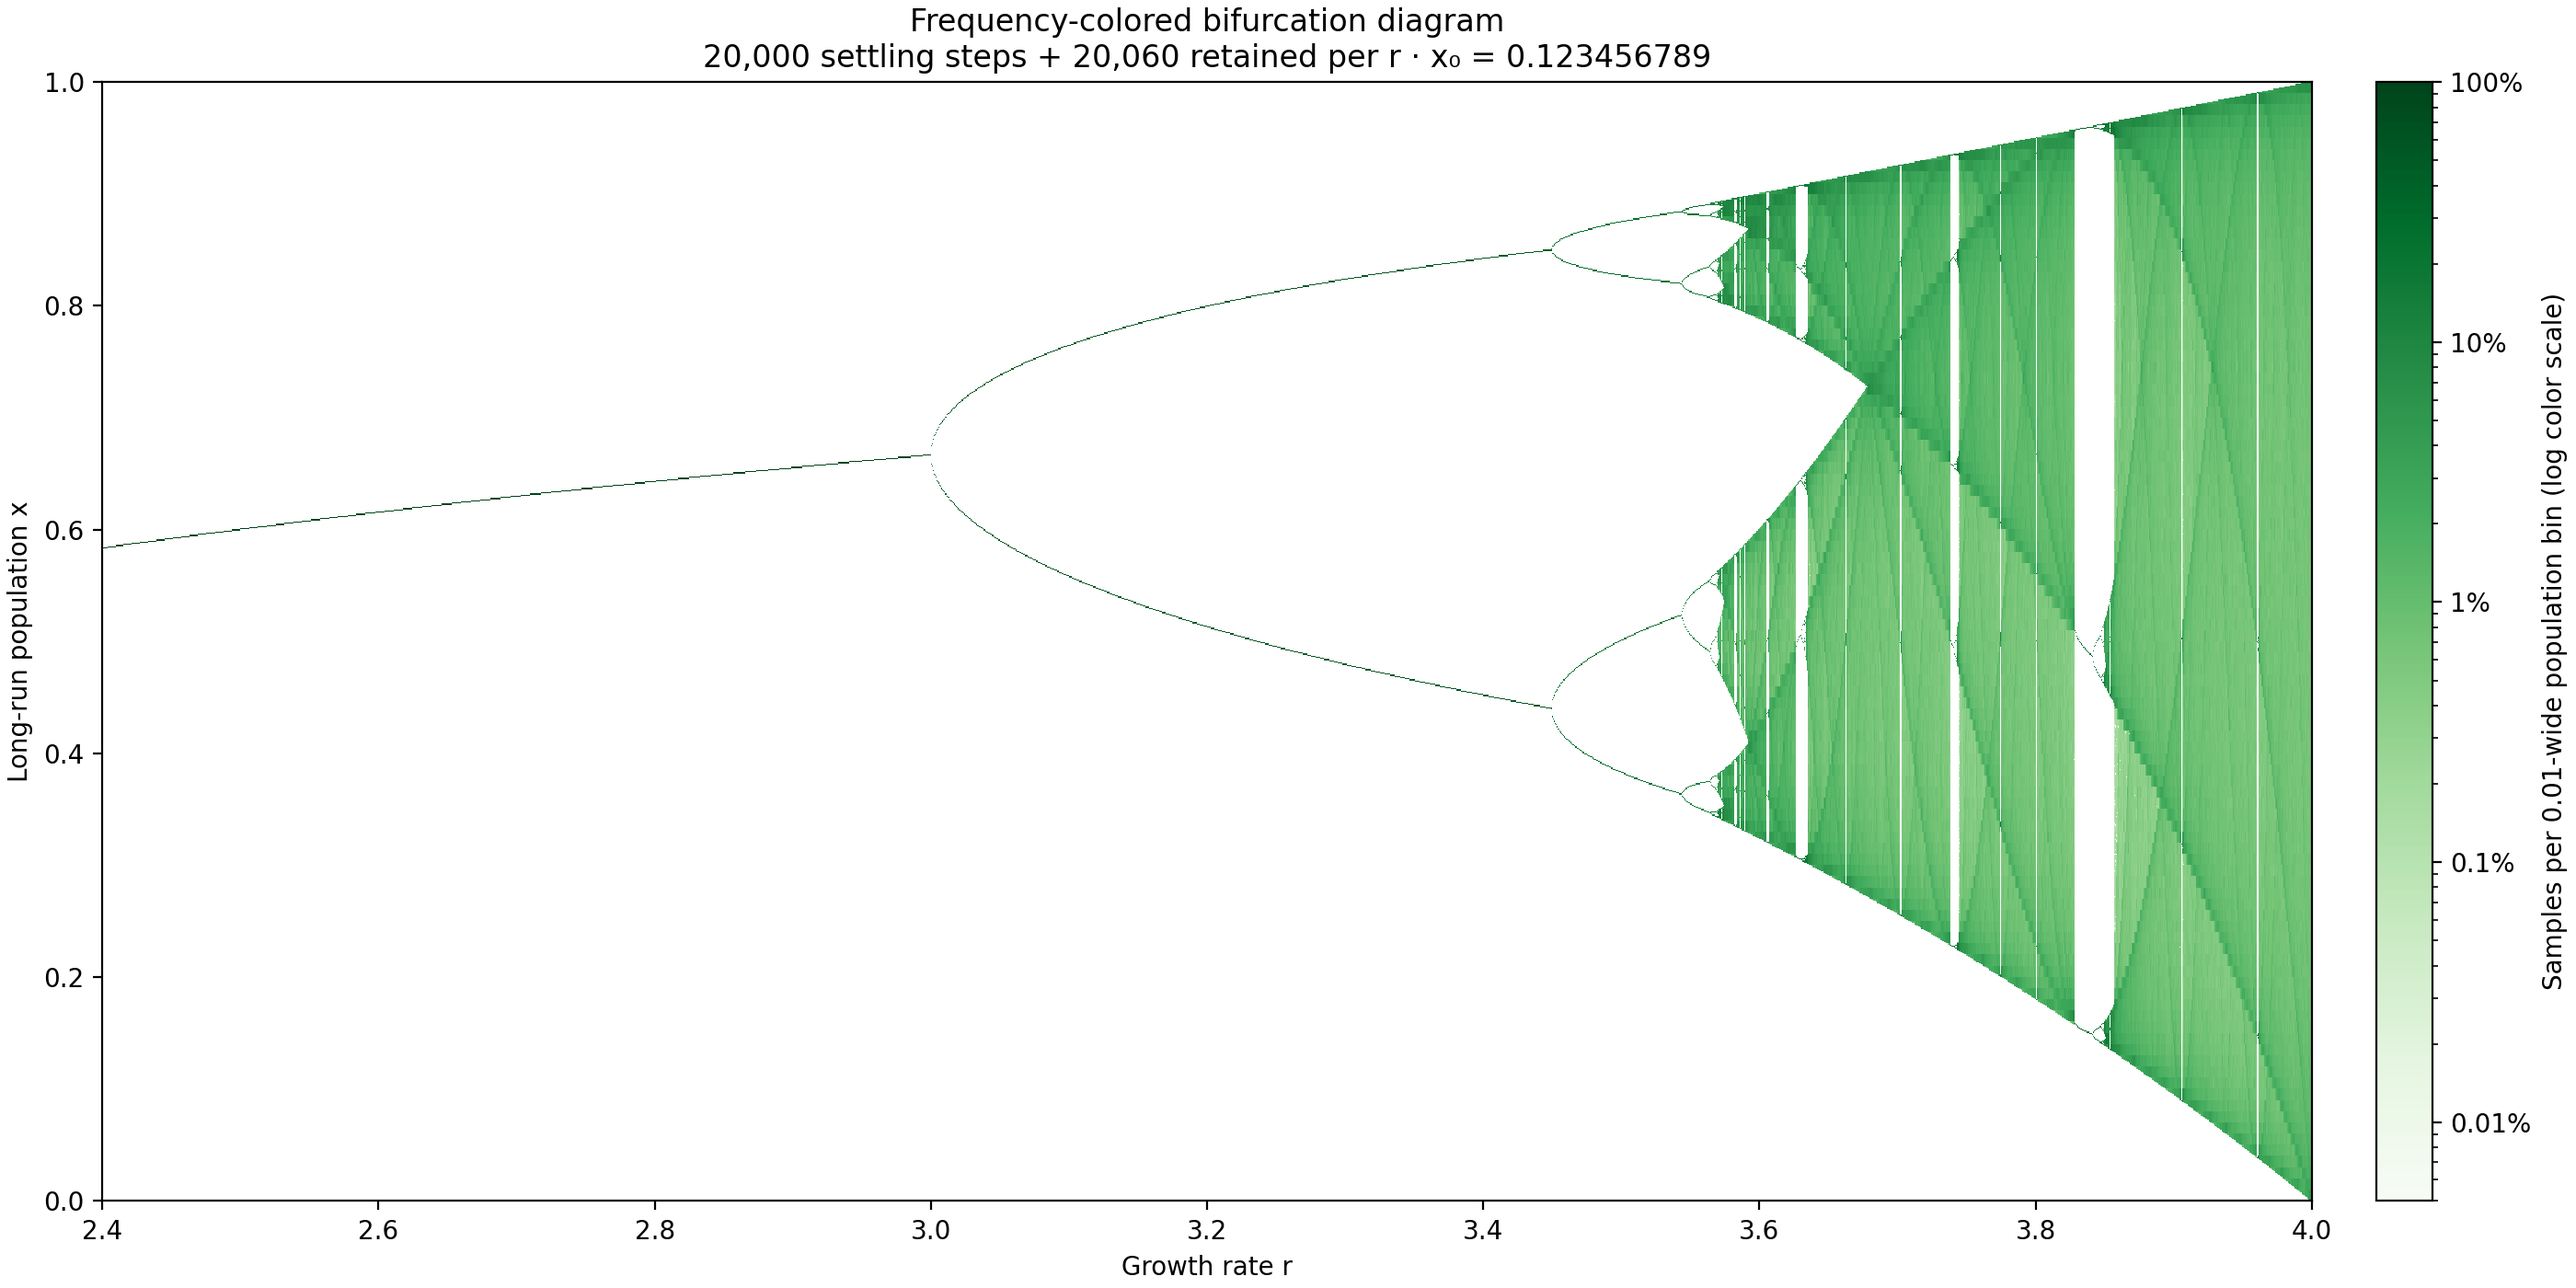
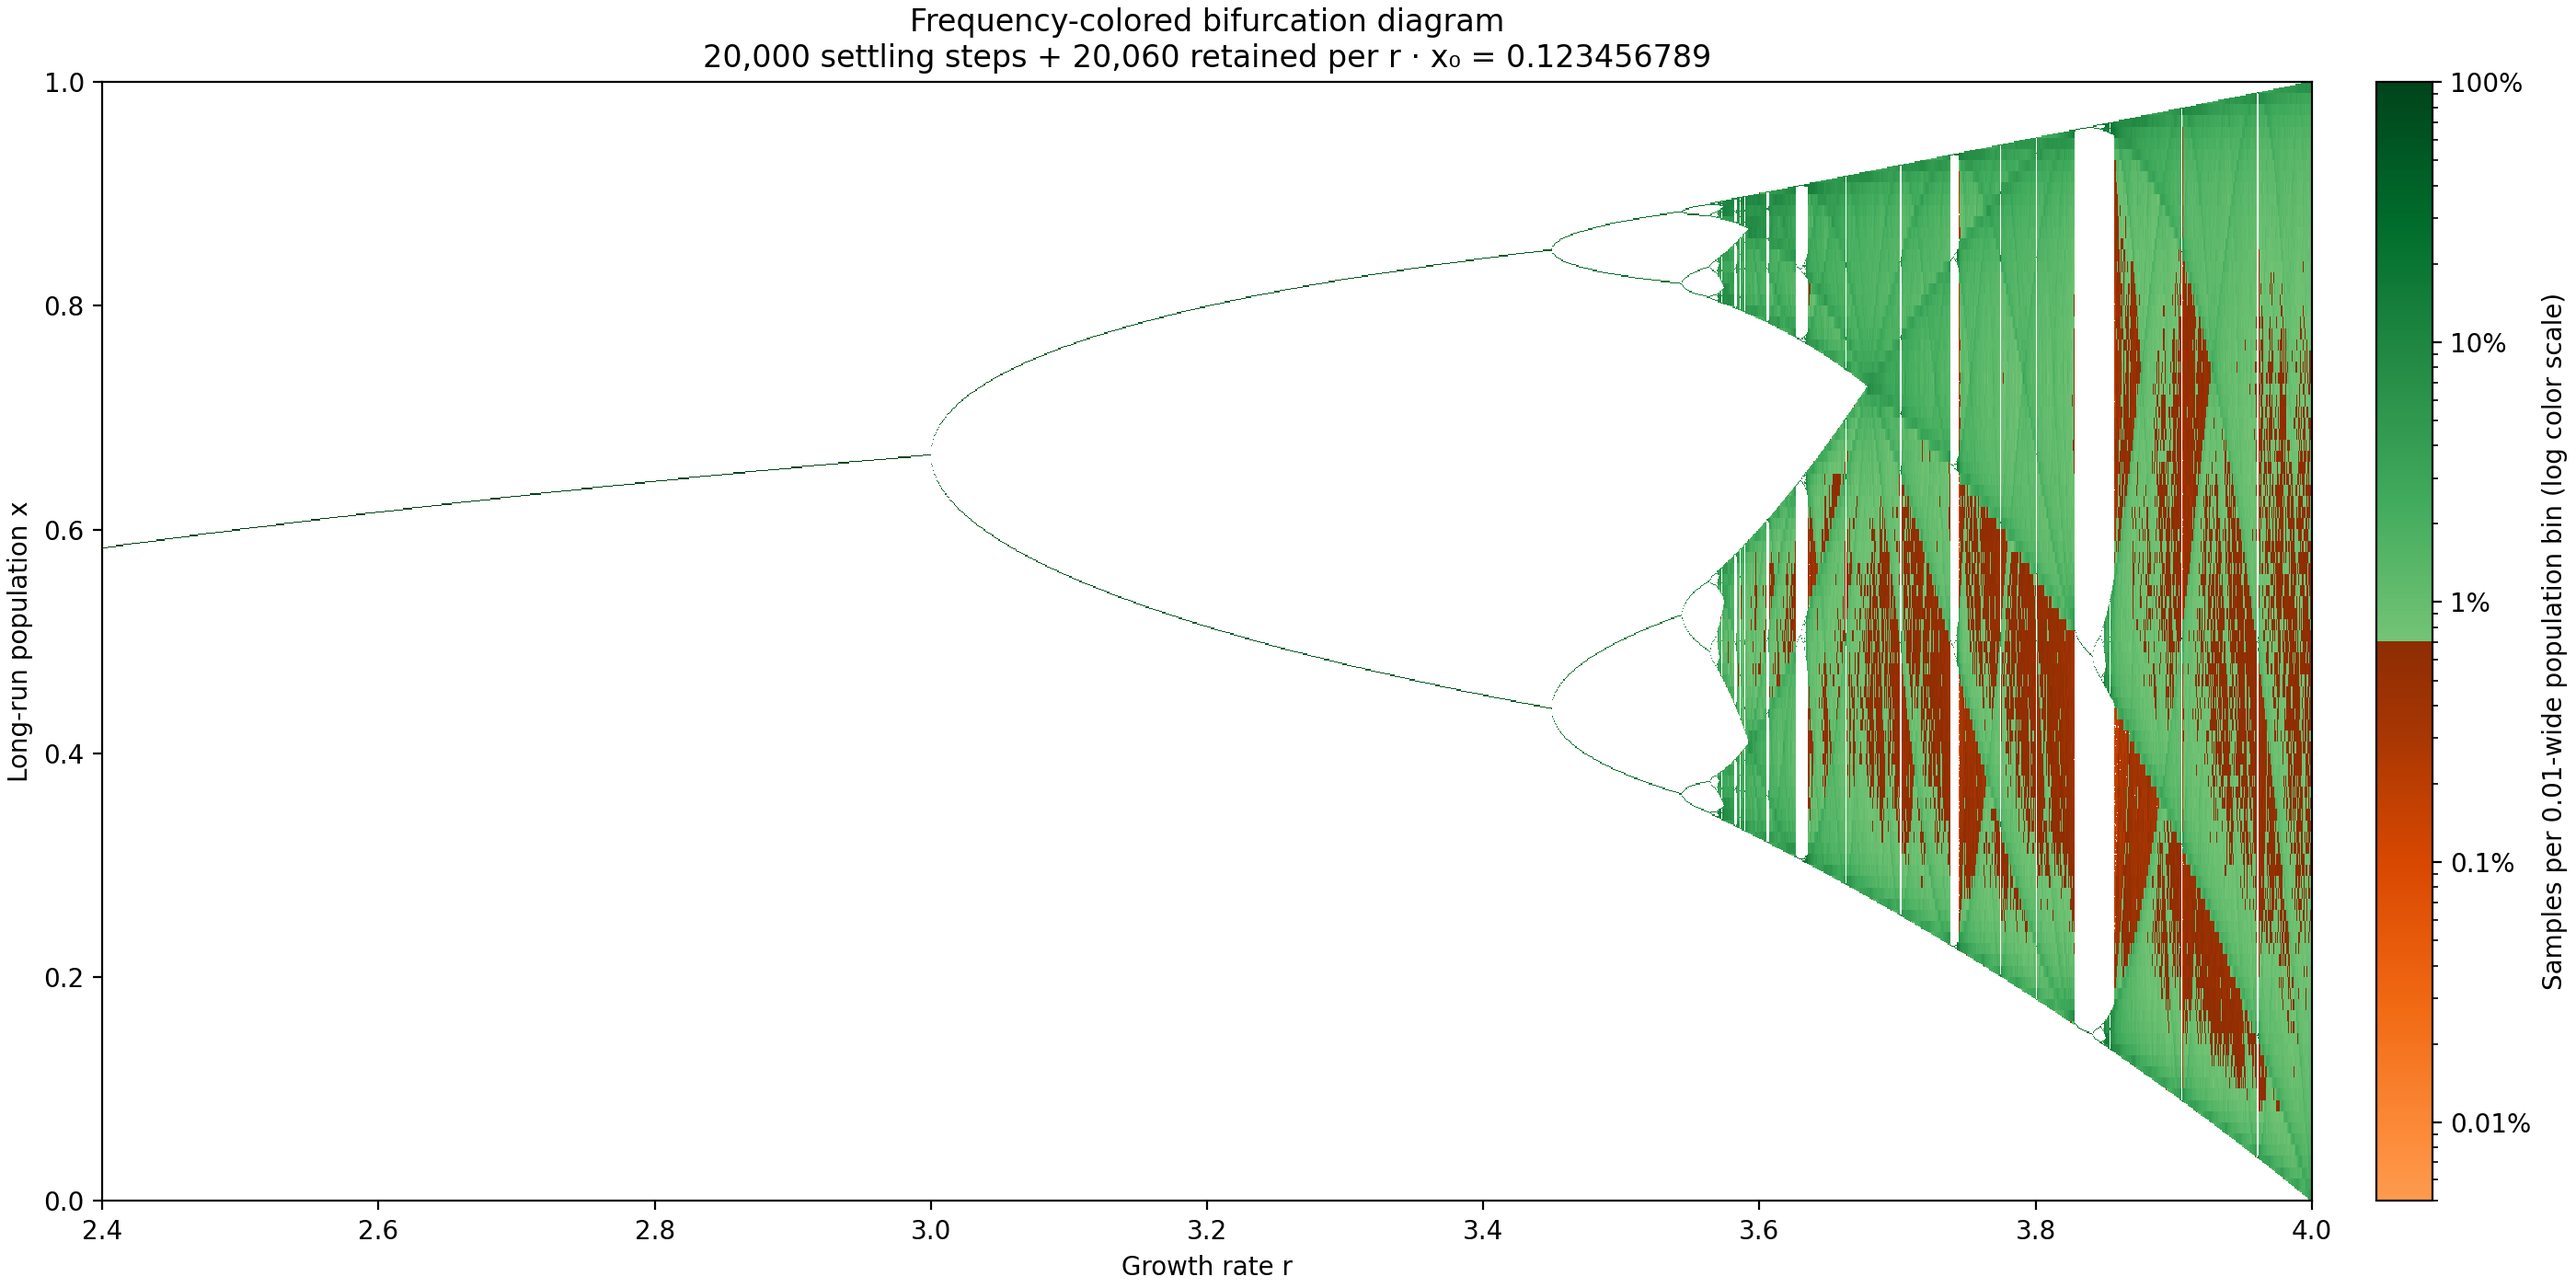
fix: increase frequency contrast with orange and green palettes

Changed region(s): [[0.6836, 0.1843, 0.9632, 0.9521]]

diff --git a/scripts/bifurcation_frequency.py b/scripts/bifurcation_frequency.py
@@ -6,7 +6,7 @@ from pathlib import Path
 import matplotlib
 
 matplotlib.use("Agg")
-from matplotlib.colors import LogNorm
+from matplotlib.colors import ListedColormap, LogNorm
 import matplotlib.pyplot as plt
 import numpy as np
 
@@ -50,7 +50,9 @@ def frequency_colors(counts, steps=STEPS):
 def plot_diagram(output=DEFAULT_OUTPUT):
     rates = np.linspace(R_MIN, R_MAX, R_SAMPLES)
     colors = frequency_colors(population_counts(rates))
-    cmap = plt.colormaps["Greens"].copy()
+    low_colors = plt.colormaps["Oranges"](np.linspace(0.45, 0.95, 128))
+    high_colors = plt.colormaps["Greens"](np.linspace(0.5, 1.0, 128))
+    cmap = ListedColormap(np.vstack((low_colors, high_colors)), name="OrangeGreen")
     cmap.set_bad("white")
     fig, ax = plt.subplots(figsize=(14, 7), layout="constrained")
     image = ax.imshow(

diff --git a/docs/logistic-map-dynamics.md b/docs/logistic-map-dynamics.md
@@ -90,10 +90,12 @@ Generated figures are saved in `docs/graphs/`.
 ![Bifurcation diagram colored by population frequency](graphs/bifurcation_frequency.png)
 
 The original r = 2.4–4.0 view is regenerated with color showing the percentage
-of retained steps in each 0.01-wide population bin. Darker green marks more
-frequently visited ranges; white marks unsampled ranges. A logarithmic color
-scale brings out both concentrated periodic cycles and spread-out chaotic
-populations. Branch positions use finer 0.001-wide bins.
+of retained steps in each 0.01-wide population bin. Two distinct palettes mark
+the lower-frequency range in orange and the higher-frequency range in green;
+darker shades within each palette indicate higher frequencies. White marks
+unsampled ranges. A logarithmic color scale brings out both concentrated periodic
+cycles and spread-out chaotic populations. Branch positions use finer
+0.001-wide bins.
 
 Each of 4,000 constant-r runs starts at `x₀ = 0.123456789`, discards 20,000
 settling steps, and retains 20,060 steps for the frequency estimate.
